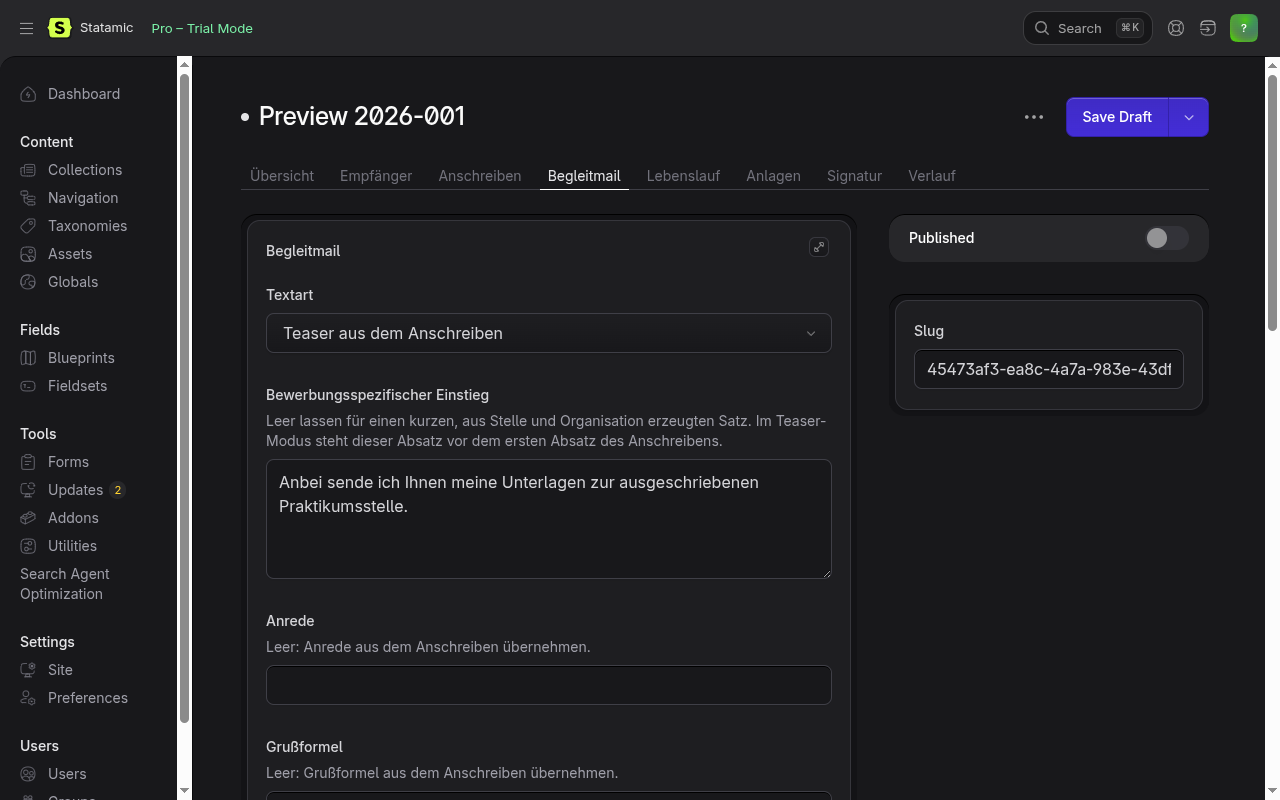
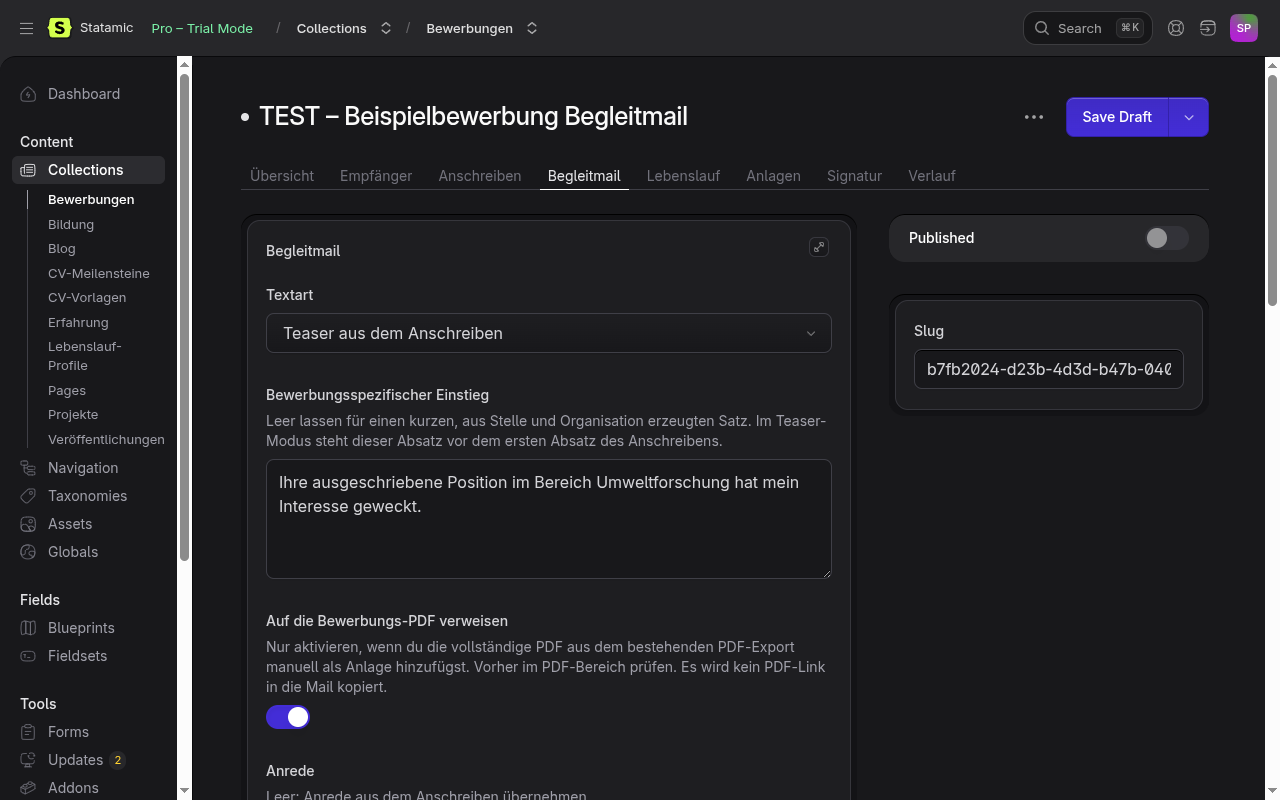
feat: add application PDF email transition

diff --git a/public/cp-applications.js b/public/cp-applications.js
@@ -211,7 +211,11 @@
             frame.sandbox = '';
             frame.srcdoc = data.html;
             panel.querySelector('[data-email-html-preview]').replaceChildren(frame);
-            if (status) status.textContent = data.attachments.length ? 'Anlagen: ' + data.attachments.join(', ') : 'Keine ausgewählte private PDF-Anlage wird in der Mail erwähnt.';
+            if (status) {
+                const pdfNotice = data.pdf_notice ? 'PDF-Überleitung aktiv; die exportierte PDF manuell anhängen.' : 'PDF-Überleitung aus.';
+                const attachments = data.attachments.length ? 'Anlagen: ' + data.attachments.join(', ') : 'Keine ausgewählte private PDF-Anlage wird in der Mail erwähnt.';
+                status.textContent = pdfNotice + ' ' + attachments;
+            }
         } catch (error) {
             if (status) status.textContent = error.message;
         }
@@ -303,9 +307,16 @@
     new MutationObserver(refreshProfileSummary).observe(document.documentElement, { attributes: true, attributeFilter: ['value'], childList: true, subtree: true });
 
     document.addEventListener('click', async event => {
-        const button = event.target.closest('[data-reset-application-date], [data-application-cv], [data-application-preview], [data-application-export], [data-application-grant-create], [data-application-grant-revoke], [data-application-grant-revoke-all], [data-application-copy-link], [data-application-cv-grant-create], [data-application-cv-grant-copy], [data-application-cv-grant-revoke], [data-email-refresh], [data-email-copy-text], [data-email-copy-html]');
+        const button = event.target.closest('[data-reset-application-date], [data-application-cv], [data-application-preview], [data-application-export], [data-application-grant-create], [data-application-grant-revoke], [data-application-grant-revoke-all], [data-application-copy-link], [data-application-cv-grant-create], [data-application-cv-grant-copy], [data-application-cv-grant-revoke], [data-email-pdf], [data-email-refresh], [data-email-copy-text], [data-email-copy-html]');
         if (!button) return;
         const base = appBase();
+        if (button.matches('[data-email-pdf]')) {
+            const status = button.closest('[data-application-email]')?.querySelector('[data-email-status]');
+            if (!base) { if (status) status.textContent = 'Bitte zuerst speichern.'; return; }
+            window.open(base + '/preview.pdf', '_blank', 'noopener,noreferrer');
+            if (status) status.textContent = 'Die PDF wird aus den gespeicherten Daten frisch geprüft. Änderungen zuerst speichern.';
+            return;
+        }
         if (button.matches('[data-email-refresh]')) { await loadEmail(base); return; }
         if (button.matches('[data-email-copy-text], [data-email-copy-html]')) {
             const panel = button.closest('[data-application-email]');

diff --git a/tests/Feature/ApplicationManagementTest.php b/tests/Feature/ApplicationManagementTest.php
@@ -138,6 +138,7 @@ class ApplicationManagementTest extends TestCase
         $empty = app(ApplicationEmailComposer::class)->compose($entry);
         $this->assertSame('private@example.invalid', $empty['recipient']);
         $this->assertSame('', $empty['subject']);
+        $this->assertFalse($empty['pdf_notice']);
         $this->assertStringNotContainsString('Sehr geehrte', $empty['text']);
         $this->assertStringNotContainsString('Jack Ruder', $empty['text']);
         $response = $this->getJson('/cp/applications/'.$entry->id().'/email')->assertOk();
@@ -157,13 +158,15 @@ class ApplicationManagementTest extends TestCase
         ];
         $entry->set('letter', ApplicationData::encrypt([$letter]));
         $entry->set('signature', ApplicationData::encrypt([['mode' => 'typed', 'name' => 'Jack Ruder']]));
-        $entry->set('email', ApplicationData::encrypt([['mode' => 'teaser', 'intro' => 'Bewerbungsspezifischer Einstieg.', 'sender_name' => 'Jack Ruder']]));
+        $entry->set('email', ApplicationData::encrypt([['mode' => 'teaser', 'intro' => 'Bewerbungsspezifischer Einstieg.', 'mention_application_pdf' => true, 'sender_name' => 'Jack Ruder']]));
         $entry->save();
 
         $mail = app(ApplicationEmailComposer::class)->compose(Entry::find($entry->id()));
         $this->assertSame('bewerbung@example.invalid', $mail['recipient']);
         $this->assertSame('Bewerbung: Praktikum Forschung', $mail['subject']);
+        $this->assertTrue($mail['pdf_notice']);
         $this->assertStringContainsString("Bewerbungsspezifischer Einstieg.\n\nErster Absatz mit Formatierung.", $mail['text']);
+        $this->assertStringContainsString("Erster Absatz mit Formatierung.\n\nDie vollständigen Bewerbungsunterlagen finden Sie in der beigefügten PDF.", $mail['text']);
         $this->assertStringNotContainsString('Zweiter Absatz', $mail['text']);
         $this->assertStringContainsString('Sehr geehrte Frau Dr. Müller,', $mail['text']);
         $this->assertStringContainsString('Mit freundlichen Grüßen', $mail['text']);
@@ -171,13 +174,17 @@ class ApplicationManagementTest extends TestCase
         $this->assertStringNotContainsString('<img', $mail['html']);
         $this->assertStringNotContainsString('application-test', $mail['html']);
         $this->assertStringNotContainsString('recipient-link', $mail['html']);
+        $this->assertStringNotContainsString('/preview.pdf', $mail['html']);
+        $this->assertStringContainsString('Die vollständigen Bewerbungsunterlagen finden Sie in der beigefügten PDF.', $mail['html']);
         $this->assertSame([], $mail['attachments']);
 
-        $email = ['mode' => 'manual', 'manual_body' => "Manueller erster Absatz.\n\nManueller zweiter Absatz."];
+        $email = ['mode' => 'manual', 'manual_body' => "Manueller erster Absatz.\n\nManueller zweiter Absatz.", 'mention_application_pdf' => true];
         $entry->set('email', ApplicationData::encrypt([$email]));
         $entry->save();
         $manual = app(ApplicationEmailComposer::class)->compose(Entry::find($entry->id()));
+        $this->assertFalse($manual['pdf_notice']);
         $this->assertSame("Sehr geehrte Frau Dr. Müller,\n\nManueller erster Absatz.\n\nManueller zweiter Absatz.\n\nMit freundlichen Grüßen\n\nJack Ruder", $manual['text']);
+        $this->assertStringNotContainsString('beigefügten PDF', $manual['text']);
         $this->assertStringContainsString('<p style="margin:0 0 16px">Manueller erster Absatz.</p>', $manual['html']);
         $this->assertStringContainsString('<p style="margin:0 0 16px">Manueller zweiter Absatz.</p>', $manual['html']);
     }

diff --git a/app/Support/ApplicationEmailComposer.php b/app/Support/ApplicationEmailComposer.php
@@ -24,10 +24,12 @@ final class ApplicationEmailComposer
             'teaser' => $this->joinParagraphs(trim((string) ($email['intro'] ?? '')), $this->firstParagraph(ApplicationData::coverLetter($entry))),
             default => trim((string) ($email['intro'] ?? '')) ?: $this->shortBody($recipient),
         };
+        $mentionPdf = $mode !== 'manual' && in_array($email['mention_application_pdf'] ?? false, [true, 1, '1', 'true', 'on', 'yes'], true);
+        $pdfTransition = $mentionPdf ? 'Die vollständigen Bewerbungsunterlagen finden Sie in der beigefügten PDF.' : '';
         $attachments = $this->selectedAttachments($entry);
         $attachmentDescription = $attachments === [] ? '' : 'Als Anlage erhalten Sie: '.implode(', ', array_column($attachments, 'label')).'.';
 
-        $parts = array_values(array_filter([$salutation, $body, $attachmentDescription, $closing, $sender], fn ($part) => trim($part) !== ''));
+        $parts = array_values(array_filter([$salutation, $body, $pdfTransition, $attachmentDescription, $closing, $sender], fn ($part) => trim($part) !== ''));
         $text = implode("\n\n", $parts);
         $html = '<!doctype html><html lang="de"><body style="margin:0;padding:24px;color:#20242a;background:#fff;font:16px/1.6 Arial,Helvetica,sans-serif"><div style="max-width:640px;margin:0 auto">'
             .implode('', array_map(fn ($part) => $this->htmlParagraphs($part), $parts))
@@ -37,6 +39,7 @@ final class ApplicationEmailComposer
             'recipient' => trim((string) ($recipient['email'] ?? '')),
             'subject' => $subject,
             'mode' => $mode,
+            'pdf_notice' => $mentionPdf,
             'text' => $text,
             'html' => $html,
             'attachments' => array_column($attachments, 'label'),

diff --git a/docs/application-management.md b/docs/application-management.md
@@ -19,7 +19,7 @@ The workflow status is separate from Statamic publication. Application saves for
 
 The private **Begleitmail** tab creates a local draft from saved application data. Save the application before refreshing the preview. The recipient email comes from Empfänger; the subject is `Bewerbung: ` plus the cover-letter subject. Missing values stay empty. The salutation and closing use the email-specific text when entered, otherwise the cover-letter values. The sender name uses the email value or an explicitly stored typed-signature name; handwritten signature images are never used.
 
-Choose **Kurze Begleitmail** for a concise application-specific sentence based on the stored position and organisation, with an editable introduction. **Teaser aus dem Anschreiben** appends only the first Bard paragraph after the editable introduction, keeping paragraph breaks. **Vollständig manuell** uses only the email body field. The attachment sentence and labels are generated only from selected PDFs that still resolve in the private application-documents container.
+Choose **Kurze Begleitmail** for a concise application-specific sentence based on the stored position and organisation, with an editable introduction. **Teaser aus dem Anschreiben** appends only the first Bard paragraph after the editable introduction, keeping paragraph breaks. These modes can add a transition to the complete application PDF when **Auf die Bewerbungs-PDF verweisen** is selected. The control panel opens the existing PDF preview; the user must attach its exported PDF in their mail editor. No PDF link or access token is copied into the email. **Vollständig manuell** uses only the email body field. Other attachment labels are generated only from selected PDFs that still resolve in the private application-documents container.
 
 The saved email group is encrypted with the other private application fields. Preview is a same-origin authenticated Control Panel read, returns no-store/noindex content and makes no remote composition request. Copy as text works without rich clipboard support; Copy HTML uses the browser's rich clipboard API when available and includes plain text as a fallback. There is no sending action, tracking image, bearer link, signature image or `.eml` export. Check the result and send it yourself in your mail application.
 
